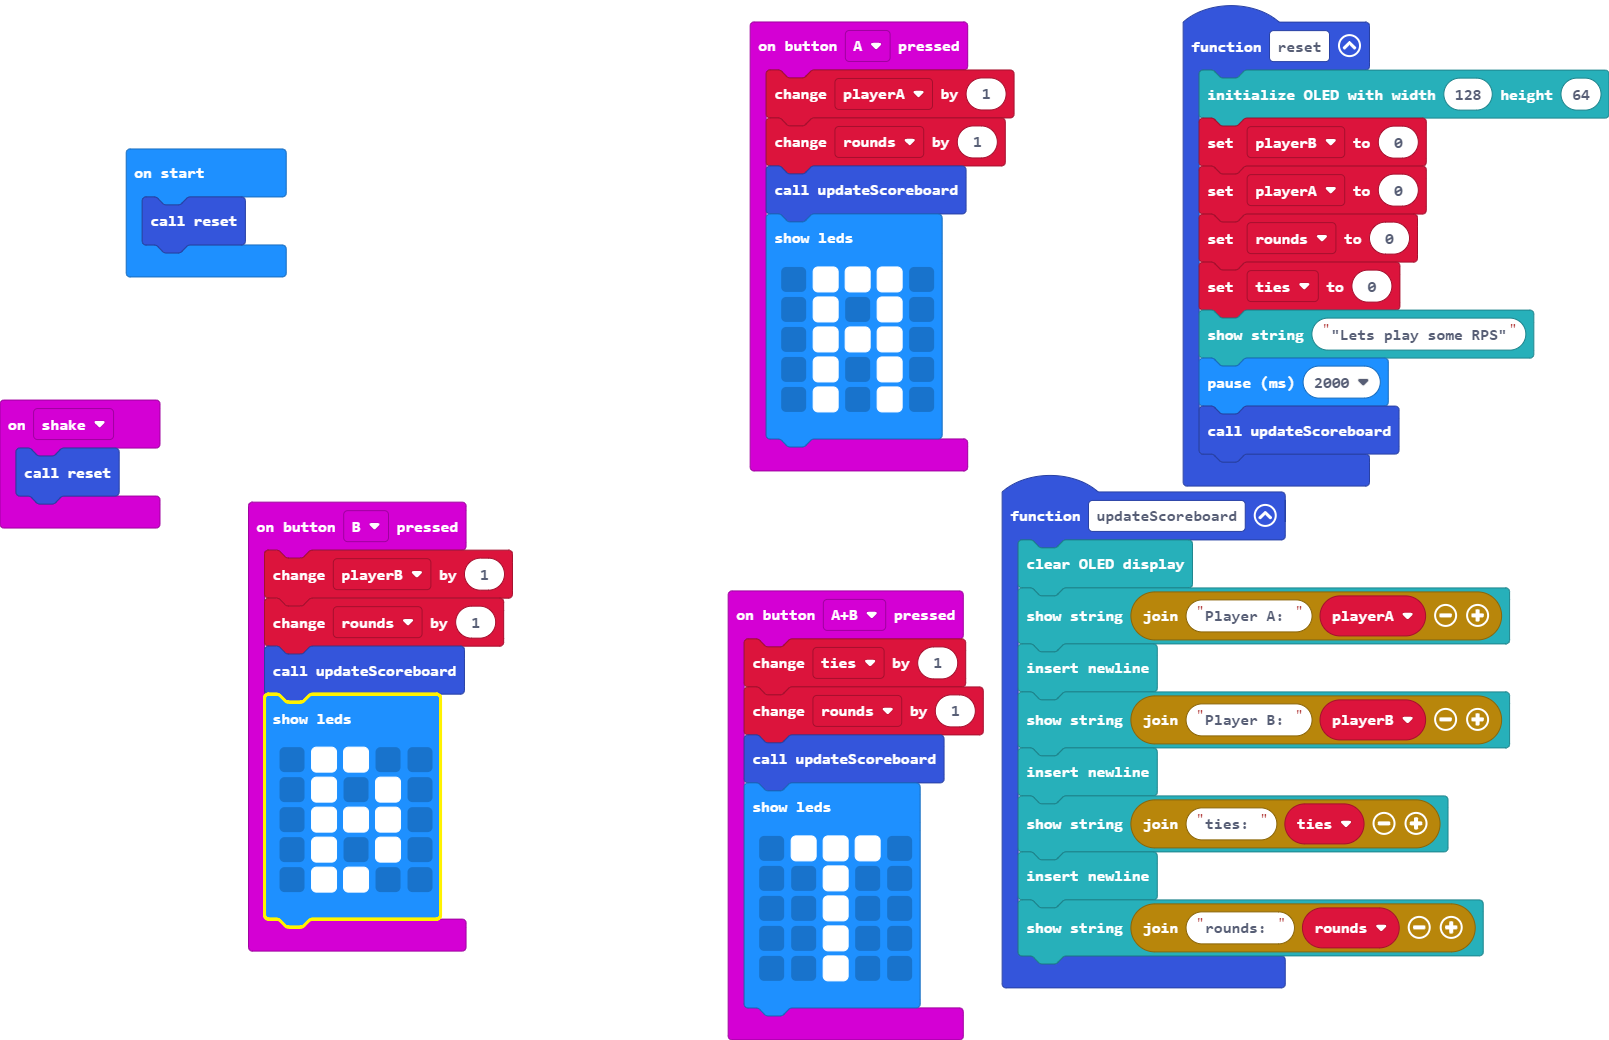
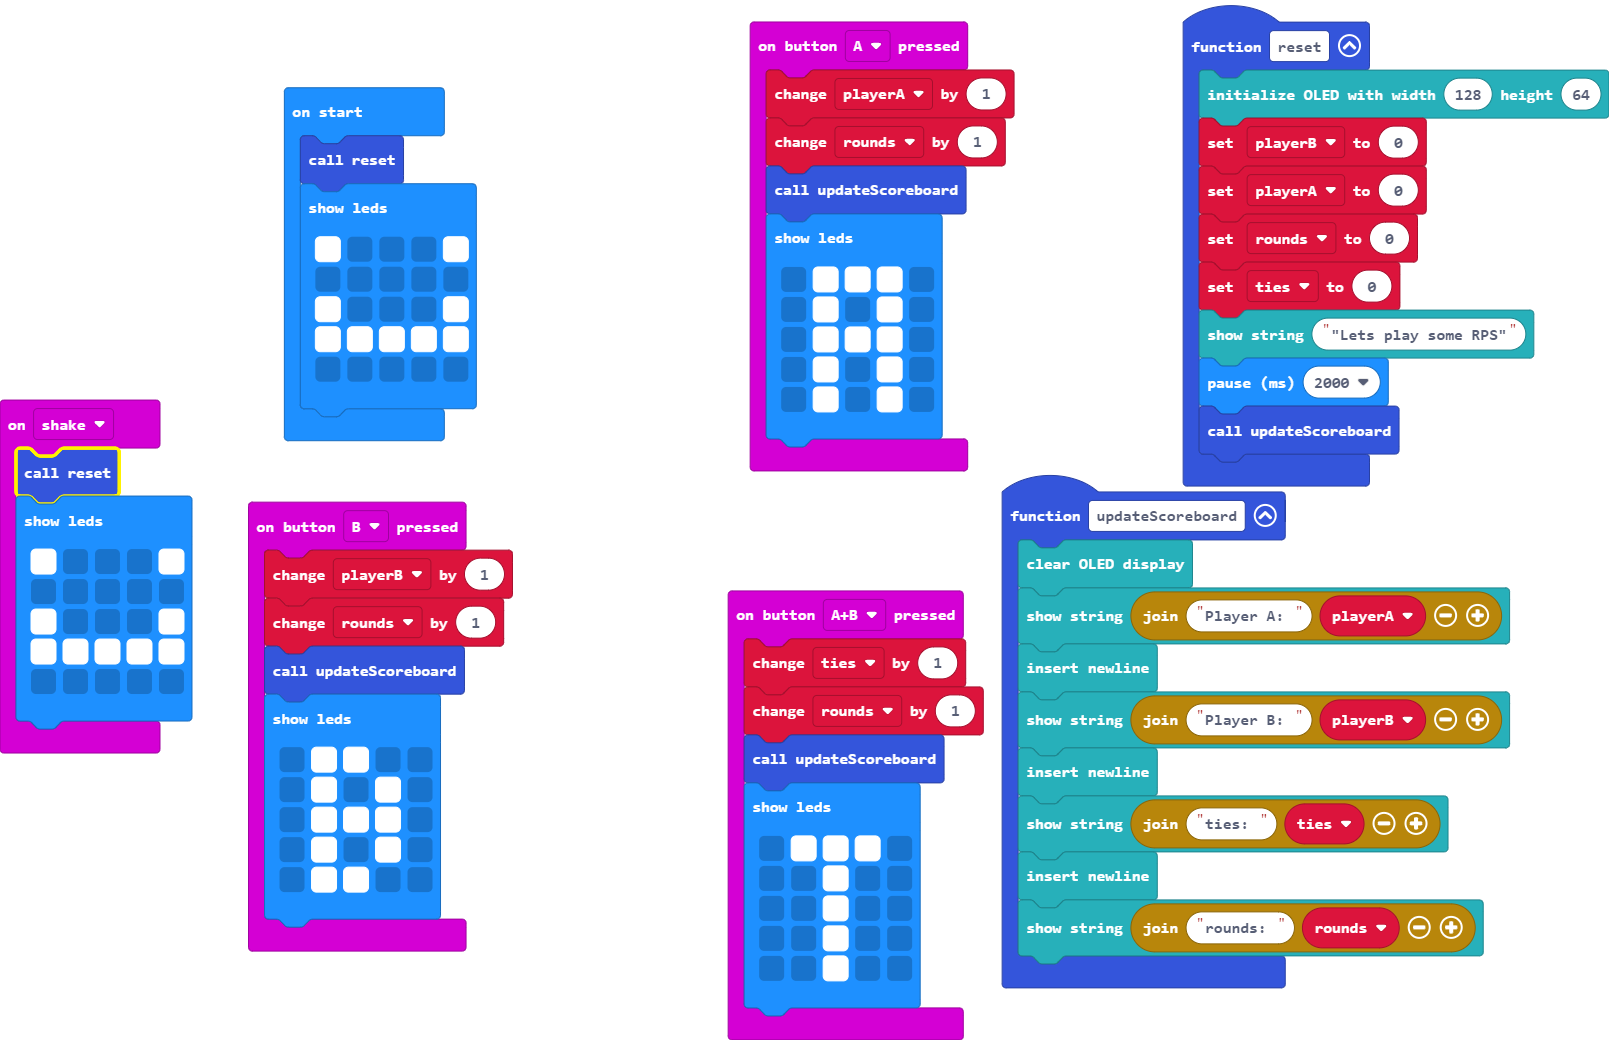
Update main.blocks, main.ts

diff --git a/main.ts b/main.ts
@@ -46,6 +46,13 @@ input.onButtonPressed(Button.B, function () {
 })
 input.onGesture(Gesture.Shake, function () {
     reset()
+    basic.showLeds(`
+        # . . . #
+        . . . . .
+        # . . . #
+        # # # # #
+        . . . . .
+        `)
 })
 function reset () {
     OLED.init(128, 64)
@@ -62,3 +69,10 @@ let ties = 0
 let playerB = 0
 let playerA = 0
 reset()
+basic.showLeds(`
+    # . . . #
+    . . . . .
+    # . . . #
+    # # # # #
+    . . . . .
+    `)
